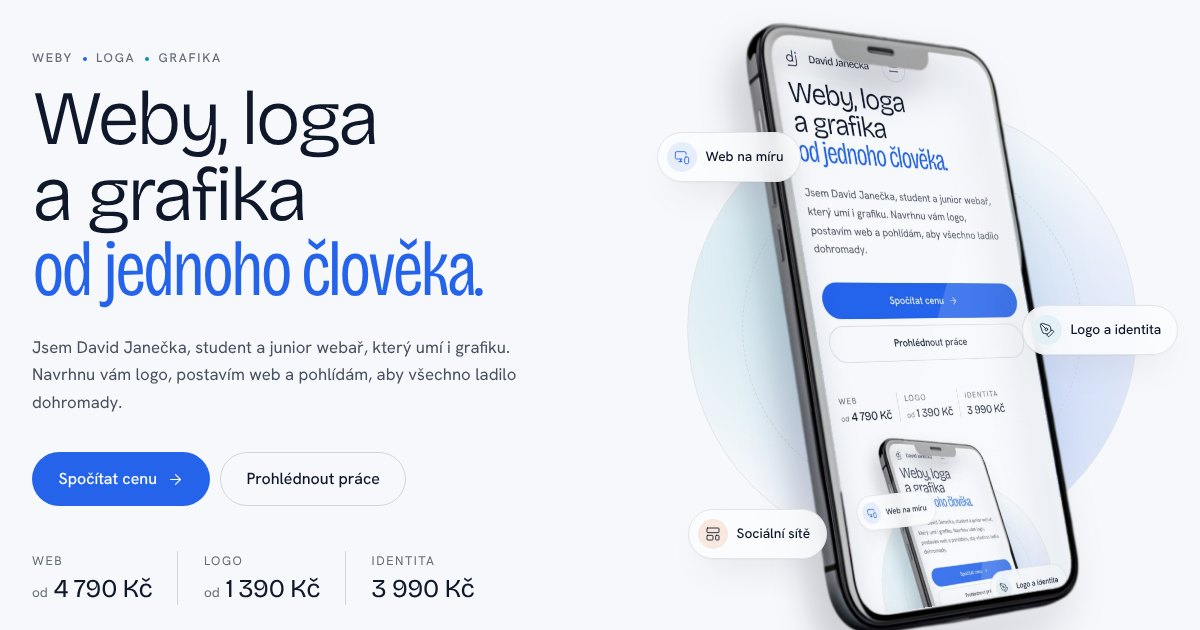
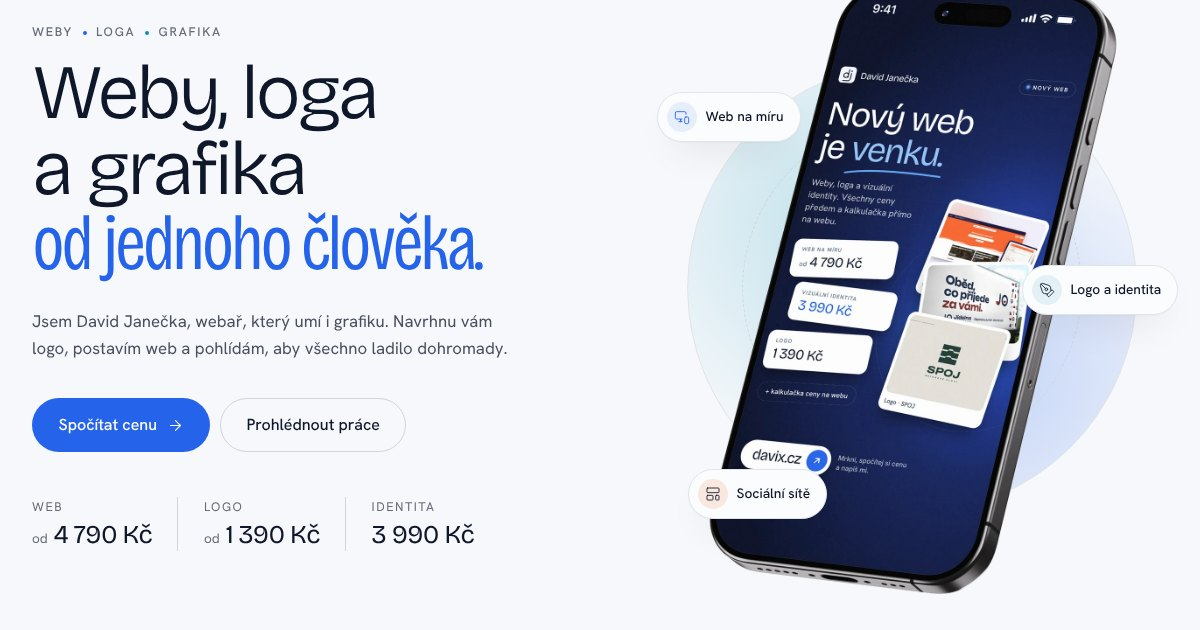
Texty bez „junior“, nový e-mail djanecka6@gmail.com, jméno v logu písmem Instrument Serif
Claude-Session: https://claude.ai/code/session_01La4d1GQrukcYDAUQu1kcTj

diff --git a/index.html b/index.html
@@ -16,7 +16,7 @@
 
   <header class="hd" data-nav>
     <div class="hd__bar">
-      <a class="logo" href="#top" aria-label="David Janečka, zpět na začátek"><i data-logo></i><span class="logo__name">David Janečka</span></a>
+      <a class="logo" href="#top" aria-label="David Janečka, zpět na začátek"><i data-logo></i><span class="logo__name">David <em>Janečka</em></span></a>
       <nav class="hd__links" id="menu" aria-label="Hlavní navigace" data-nav-links>
         <a href="#sluzby">Služby</a>
         <a href="#prace">Práce</a>
@@ -27,7 +27,7 @@
         <a class="hd__menu-cta nav__menu-cta" href="#kontakt">Napište mi</a>
       </nav>
       <div class="hd__end">
-        <a class="icon-btn" href="mailto:davix.designstudio@gmail.com" aria-label="Napsat e-mail" data-mail></a>
+        <a class="icon-btn" href="mailto:djanecka6@gmail.com" aria-label="Napsat e-mail" data-mail></a>
         <a class="btn btn--ink btn--sm hd__cta" href="#kontakt">Napište mi</a>
         <a class="btn btn--accent btn--sm hd__quick" href="#kontakt"><span data-icon="messageCircle"></span>Napište mi</a>
         <button class="hd__toggle" type="button" aria-expanded="false" aria-controls="menu" aria-label="Otevřít menu" data-nav-toggle>
@@ -45,7 +45,7 @@
           <p class="eyebrow" data-intro>Weby <i></i> Loga <i></i> Grafika</p>
           <h1 id="hero-title" data-intro>Weby, loga a&nbsp;grafika <em>od jednoho člověka.</em></h1>
           <p class="hero__lead" data-intro>
-            Jsem David Janečka, student a junior webař, který umí i&nbsp;grafiku. Navrhnu vám logo, postavím web
+            Jsem David Janečka, webař, který umí i&nbsp;grafiku. Navrhnu vám logo, postavím web
             a&nbsp;pohlídám, aby všechno ladilo dohromady.
           </p>
           <div class="hero__cta" data-intro>
@@ -106,7 +106,7 @@
         <div class="head">
           <p class="eyebrow" data-reveal>Ceník a kalkulačky</p>
           <h2 id="services-title" data-reveal>Spočítejte si, <em>kolik to bude stát</em></h2>
-          <p class="head__lead" data-reveal>Jsem student a junior, proto jsou moje ceny výrazně nižší než v&nbsp;agentuře. Na kvalitě ale nešetřím, každý projekt je pro mě vizitka.</p>
+          <p class="head__lead" data-reveal>Pracuju sám, bez agenturní režie, proto jsou moje ceny výrazně nižší než v&nbsp;agentuře. Na kvalitě ale nešetřím, každý projekt je pro mě vizitka.</p>
         </div>
 
         <div class="tools-tabs" role="tablist" aria-label="Kalkulačky" data-reveal>
@@ -251,19 +251,19 @@
           <div class="avatar"><i data-logo></i></div>
           <div class="about__card">
             <strong>David Janečka</strong>
-            <span>Junior webař a grafik</span>
+            <span>Webař a grafik</span>
           </div>
         </div>
         <div class="about__text">
           <p class="eyebrow" data-reveal>O mně</p>
           <h2 id="about-title" data-reveal>Kód i grafika <em>z&nbsp;jedné hlavy</em></h2>
           <p data-reveal>
-            Jsem David, student a junior webař. Nejvíc mě baví, když web nejen hezky vypadá, ale taky
+            Jsem David, webař a grafik. Nejvíc mě baví, když web nejen hezky vypadá, ale taky
             přivádí zákazníky. Umím design i&nbsp;programování, takže nemusíte shánět dva lidi a hlídat, jestli si rozumí.
           </p>
           <p data-reveal>
-            Jsem na začátku cesty, a tak každý projekt beru osobně a mám na vás čas. Vy dostanete poctivou práci
-            za studentskou cenu, já další projekt, na který budu hrdý.
+            Už mám za sebou weby i&nbsp;vizuální identity a každý další projekt beru osobně. Vy dostanete poctivou práci
+            za férovou cenu, já další projekt, na který budu hrdý.
           </p>
           <ul class="chips" data-reveal aria-label="S čím pracuju">
             <li><span data-icon="codeXml"></span>HTML a CSS</li>
@@ -300,7 +300,7 @@
           <h2 id="contact-title" data-reveal>Pojďme probrat <em>váš projekt</em></h2>
           <p class="contact__lead" data-reveal>Napište mi, s čím vám můžu pomoct. Ozvu se a poradím, kde začít.</p>
           <div class="contact__ways" data-reveal>
-            <a class="contact__mail" href="mailto:davix.designstudio@gmail.com"><span data-icon="mail"></span>davix.designstudio@gmail.com</a>
+            <a class="contact__mail" href="mailto:djanecka6@gmail.com"><span data-icon="mail"></span>djanecka6@gmail.com</a>
             <a class="contact__mail" href="tel:+420737402473"><span data-icon="phone"></span>+420 737 402 473</a>
           </div>
         </div>

diff --git a/src/v2/style.css b/src/v2/style.css
@@ -28,6 +28,27 @@
   src: url('./fonts/hanken-grotesk-latin-ext-wght-normal.woff2') format('woff2');
   unicode-range: U+0100-02BA, U+02BD-02C5, U+02C7-02CC, U+02CE-02D7, U+02DD-02FF, U+0304, U+0308, U+0329, U+1D00-1DBF, U+1E00-1E9F, U+1EF2-1EFF, U+2020, U+20A0-20AB, U+20AD-20C0, U+2113, U+2C60-2C7F, U+A720-A7FF;
 }
+/* Instrument Serif jen pro jméno v logu */
+@font-face {
+  font-family: 'Instrument Serif'; font-style: normal; font-weight: 400; font-display: swap;
+  src: url('./fonts/instrument-serif-latin-400-normal.woff2') format('woff2');
+  unicode-range: U+0000-00FF, U+0131, U+0152-0153, U+02BB-02BC, U+02C6, U+02DA, U+02DC, U+0304, U+0308, U+0329, U+2000-206F, U+20AC, U+2122, U+2191, U+2193, U+2212, U+2215, U+FEFF, U+FFFD;
+}
+@font-face {
+  font-family: 'Instrument Serif'; font-style: normal; font-weight: 400; font-display: swap;
+  src: url('./fonts/instrument-serif-latin-ext-400-normal.woff2') format('woff2');
+  unicode-range: U+0100-02BA, U+02BD-02C5, U+02C7-02CC, U+02CE-02D7, U+02DD-02FF, U+0304, U+0308, U+0329, U+1D00-1DBF, U+1E00-1E9F, U+1EF2-1EFF, U+2020, U+20A0-20AB, U+20AD-20C0, U+2113, U+2C60-2C7F, U+A720-A7FF;
+}
+@font-face {
+  font-family: 'Instrument Serif'; font-style: italic; font-weight: 400; font-display: swap;
+  src: url('./fonts/instrument-serif-latin-400-italic.woff2') format('woff2');
+  unicode-range: U+0000-00FF, U+0131, U+0152-0153, U+02BB-02BC, U+02C6, U+02DA, U+02DC, U+0304, U+0308, U+0329, U+2000-206F, U+20AC, U+2122, U+2191, U+2193, U+2212, U+2215, U+FEFF, U+FFFD;
+}
+@font-face {
+  font-family: 'Instrument Serif'; font-style: italic; font-weight: 400; font-display: swap;
+  src: url('./fonts/instrument-serif-latin-ext-400-italic.woff2') format('woff2');
+  unicode-range: U+0100-02BA, U+02BD-02C5, U+02C7-02CC, U+02CE-02D7, U+02DD-02FF, U+0304, U+0308, U+0329, U+1D00-1DBF, U+1E00-1E9F, U+1EF2-1EFF, U+2020, U+20A0-20AB, U+20AD-20C0, U+2113, U+2C60-2C7F, U+A720-A7FF;
+}
 
 /* ===== Barvy: Kobalt (modrá, tyrkysová, oranžová, okrová) ===== */
 :root {
@@ -141,7 +162,8 @@ em { font-style: normal; font-stretch: 75%; color: var(--accent-text); }
 .mark__lines { fill: none; stroke: currentColor; stroke-width: 2.6; stroke-linecap: round; stroke-linejoin: round; }
 .mark__dot { fill: var(--c1); transition: transform .5s var(--ease); transform-origin: 40px 17.5px; }
 .logo:hover .mark__dot { transform: translateY(-3px); }
-.logo__name { font: 400 1.14rem/1 var(--display); letter-spacing: -.03em; white-space: nowrap; }
+.logo__name { font: 400 1.5rem/1 'Instrument Serif', Georgia, serif; letter-spacing: -.005em; white-space: nowrap; }
+.logo__name em { font-style: italic; color: var(--accent-text); }
 
 /* ===== Hlavička ===== */
 .hd { position: sticky; top: 0; z-index: 50; background: var(--bg); }
@@ -862,7 +884,7 @@ a.soc:hover { border-color: var(--ink); }
 @media (max-width: 640px) {
   .hd__cta, .hd .icon-btn { display: none; }
   .hd__bar { height: 64px; }
-  .logo__name { font-size: 1.05rem; }
+  .logo__name { font-size: 1.36rem; }
   .hero__cta .btn { flex: 1 1 auto; }
   .hero__prices { display: grid; grid-template-columns: repeat(3, auto); justify-content: start; }
   .hero__prices > div { padding: 0 .8rem; }

diff --git a/portfolio/index.html b/portfolio/index.html
@@ -16,7 +16,7 @@
 
   <header class="hd" data-nav>
     <div class="hd__bar">
-      <a class="logo" href="../" aria-label="David Janečka, hlavní stránka"><i data-logo></i><span class="logo__name">David Janečka</span></a>
+      <a class="logo" href="../" aria-label="David Janečka, hlavní stránka"><i data-logo></i><span class="logo__name">David <em>Janečka</em></span></a>
       <nav class="hd__links" id="menu" aria-label="Hlavní navigace" data-nav-links>
         <a href="../#sluzby">Služby</a>
         <a href="./" aria-current="page">Práce</a>
@@ -27,7 +27,7 @@
         <a class="hd__menu-cta nav__menu-cta" href="../#kontakt">Napište mi</a>
       </nav>
       <div class="hd__end">
-        <a class="icon-btn" href="mailto:davix.designstudio@gmail.com" aria-label="Napsat e-mail" data-mail></a>
+        <a class="icon-btn" href="mailto:djanecka6@gmail.com" aria-label="Napsat e-mail" data-mail></a>
         <a class="btn btn--ink btn--sm hd__cta" href="../#kontakt">Napište mi</a>
         <a class="btn btn--accent btn--sm hd__quick" href="/#kontakt"><span data-icon="messageCircle"></span>Napište mi</a>
         <button class="hd__toggle" type="button" aria-expanded="false" aria-controls="menu" aria-label="Otevřít menu" data-nav-toggle>

diff --git a/404.html b/404.html
@@ -16,7 +16,7 @@
 
   <header class="hd" data-nav>
     <div class="hd__bar">
-      <a class="logo" href="/" aria-label="David Janečka, hlavní stránka"><i data-logo></i><span class="logo__name">David Janečka</span></a>
+      <a class="logo" href="/" aria-label="David Janečka, hlavní stránka"><i data-logo></i><span class="logo__name">David <em>Janečka</em></span></a>
       <nav class="hd__links" id="menu" aria-label="Hlavní navigace" data-nav-links>
         <a href="/#sluzby">Služby</a>
         <a href="/portfolio/">Práce</a>
@@ -27,7 +27,7 @@
         <a class="hd__menu-cta nav__menu-cta" href="/#kontakt">Napište mi</a>
       </nav>
       <div class="hd__end">
-        <a class="icon-btn" href="mailto:davix.designstudio@gmail.com" aria-label="Napsat e-mail" data-mail></a>
+        <a class="icon-btn" href="mailto:djanecka6@gmail.com" aria-label="Napsat e-mail" data-mail></a>
         <a class="btn btn--ink btn--sm hd__cta" href="/#kontakt">Napište mi</a>
         <a class="btn btn--accent btn--sm hd__quick" href="/#kontakt"><span data-icon="messageCircle"></span>Napište mi</a>
         <button class="hd__toggle" type="button" aria-expanded="false" aria-controls="menu" aria-label="Otevřít menu" data-nav-toggle>

diff --git a/src/data/site.js b/src/data/site.js
@@ -2,13 +2,13 @@
 export const site = {
   name: 'David Janečka',
   brand: 'David Janečka',
-  role: 'Junior webař a grafik',
+  role: 'Webař a grafik',
   // Adresa webu: používá se pro vyhledávače (canonical, mapa webu, strukturovaná data)
   url: 'https://davix.cz',
   skills: ['HTML', 'CSS', 'JavaScript', 'Node.js', 'PHP', 'Photoshop', 'Illustrator', 'After Effects', 'Figma'],
   // Kontaktní e-mail. Na něj chodí i zprávy z formuláře (přes službu FormSubmit.co, zdarma).
   // Po první odeslané zprávě přijde e-mail „Activate Form“ – stačí v něm jednou kliknout na tlačítko.
-  email: 'davix.designstudio@gmail.com',
+  email: 'djanecka6@gmail.com',
   // Telefon: zobrazí se v patičce a u kontaktu (phoneHref je stejné číslo bez mezer pro odkaz tel:)
   phone: '+420 737 402 473',
   phoneHref: '+420737402473',

diff --git a/src/v2/sections.js b/src/v2/sections.js
@@ -198,7 +198,7 @@ export function footerMarkup(site, home, portfolio) {
       </div>
       <div class="ft__top">
         <div class="ft__brand">
-          <a class="logo" href="${home || '#top'}" aria-label="David Janečka, hlavní stránka"><i data-logo></i><span class="logo__name">David Janečka</span></a>
+          <a class="logo" href="${home || '#top'}" aria-label="David Janečka, hlavní stránka"><i data-logo></i><span class="logo__name">David <em>Janečka</em></span></a>
           <p>Weby, loga a vizuální identity na míru pro malé firmy a živnostníky. Od návrhu po spuštění.</p>
           <div class="ft__socials" aria-label="Sociální sítě">${socials}</div>
         </div>

diff --git a/src/data/faq.js b/src/data/faq.js
@@ -13,7 +13,7 @@ export const faq = [
   },
   {
     q: 'Proč jsou vaše ceny nižší než v agentuře?',
-    a: 'Jsem student a junior webař a grafik a teprve sbírám reference, proto jsou moje ceny výrazně nižší. Na kvalitě ale nešetřím: každý web i logo navrhuju na míru, žádné hotové šablony, a každý projekt je pro mě vizitka.',
+    a: 'Pracuju sám, bez agenturní režie a drahé kanceláře, proto jsou moje ceny výrazně nižší. Na kvalitě ale nešetřím: každý web i logo navrhuju na míru, žádné hotové šablony, a každý projekt je pro mě vizitka.',
   },
   {
     q: 'Můžu si objednat web i logo najednou?',

diff --git a/src/contact.js b/src/contact.js
@@ -46,7 +46,7 @@ export function initContact() {
           'E-mail': data.get('email'),
           'Zpráva': data.get('message'),
           _replyto: data.get('email'),
-          _subject: `Nová poptávka z webu davix.cz od ${data.get('name')}`,
+          _subject: `Nová poptávka z webu od ${data.get('name')}`,
           _template: 'table',
           _honey: data.get('_honey'),
         }),
